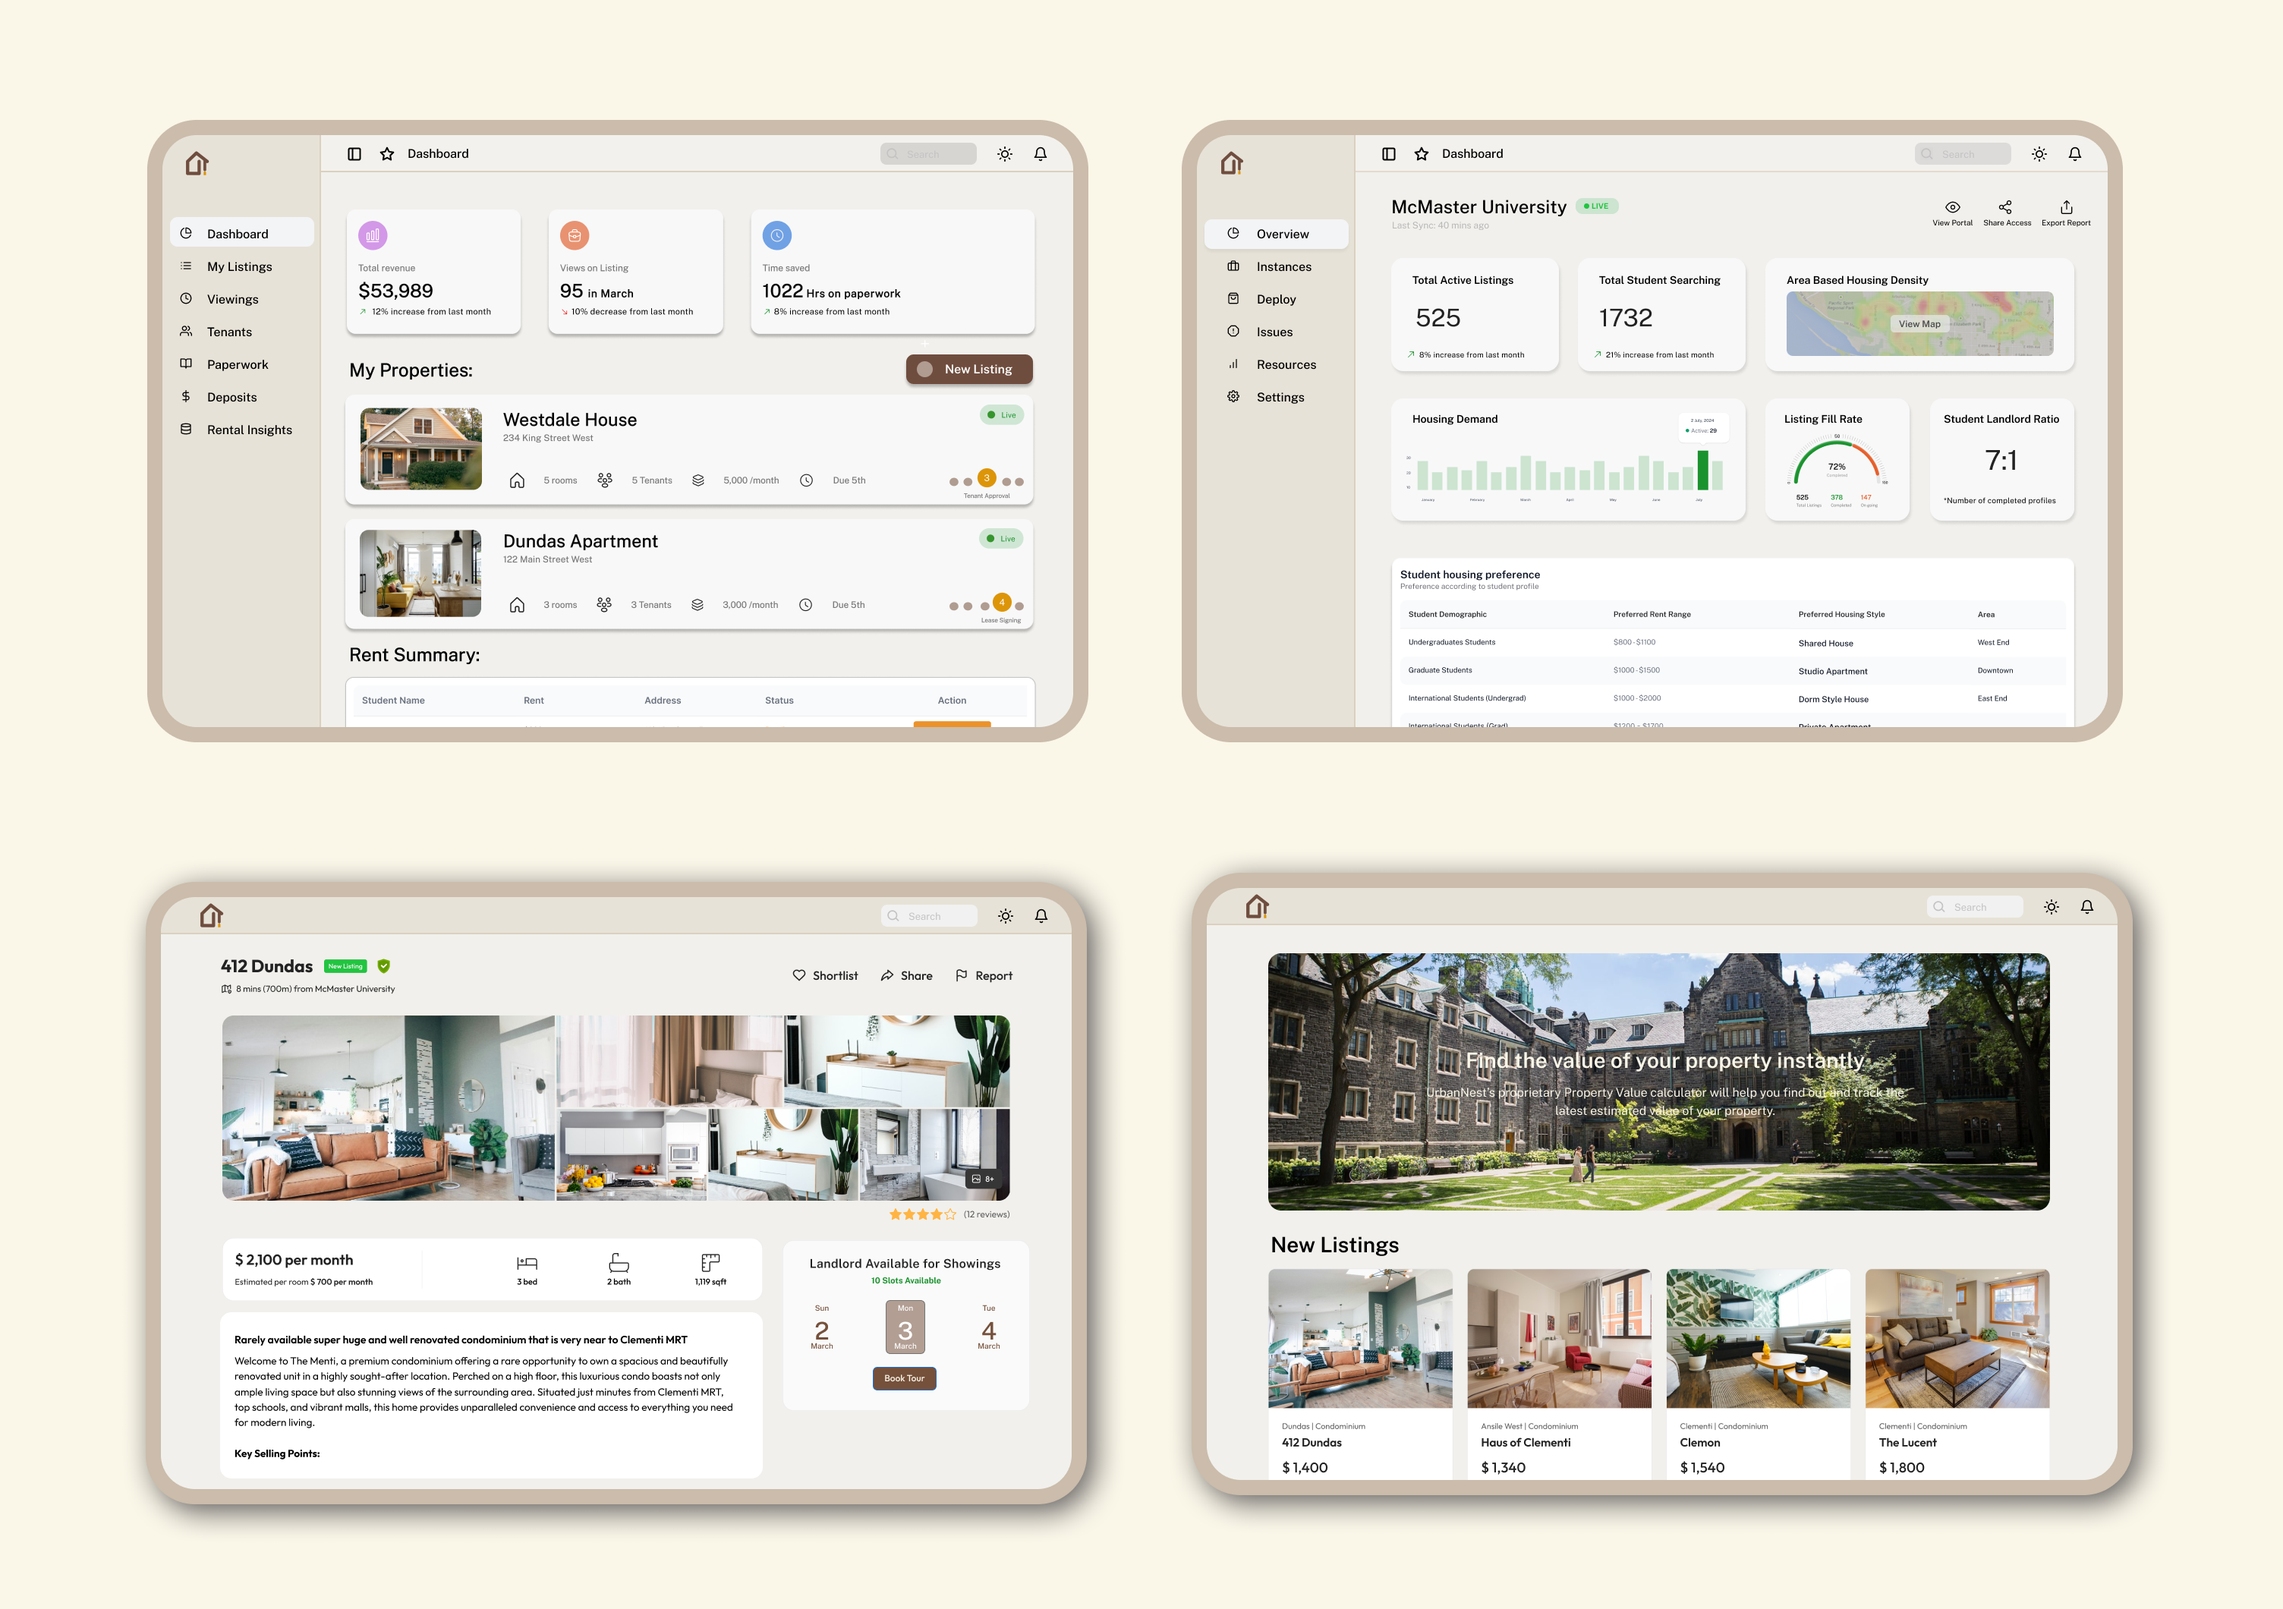
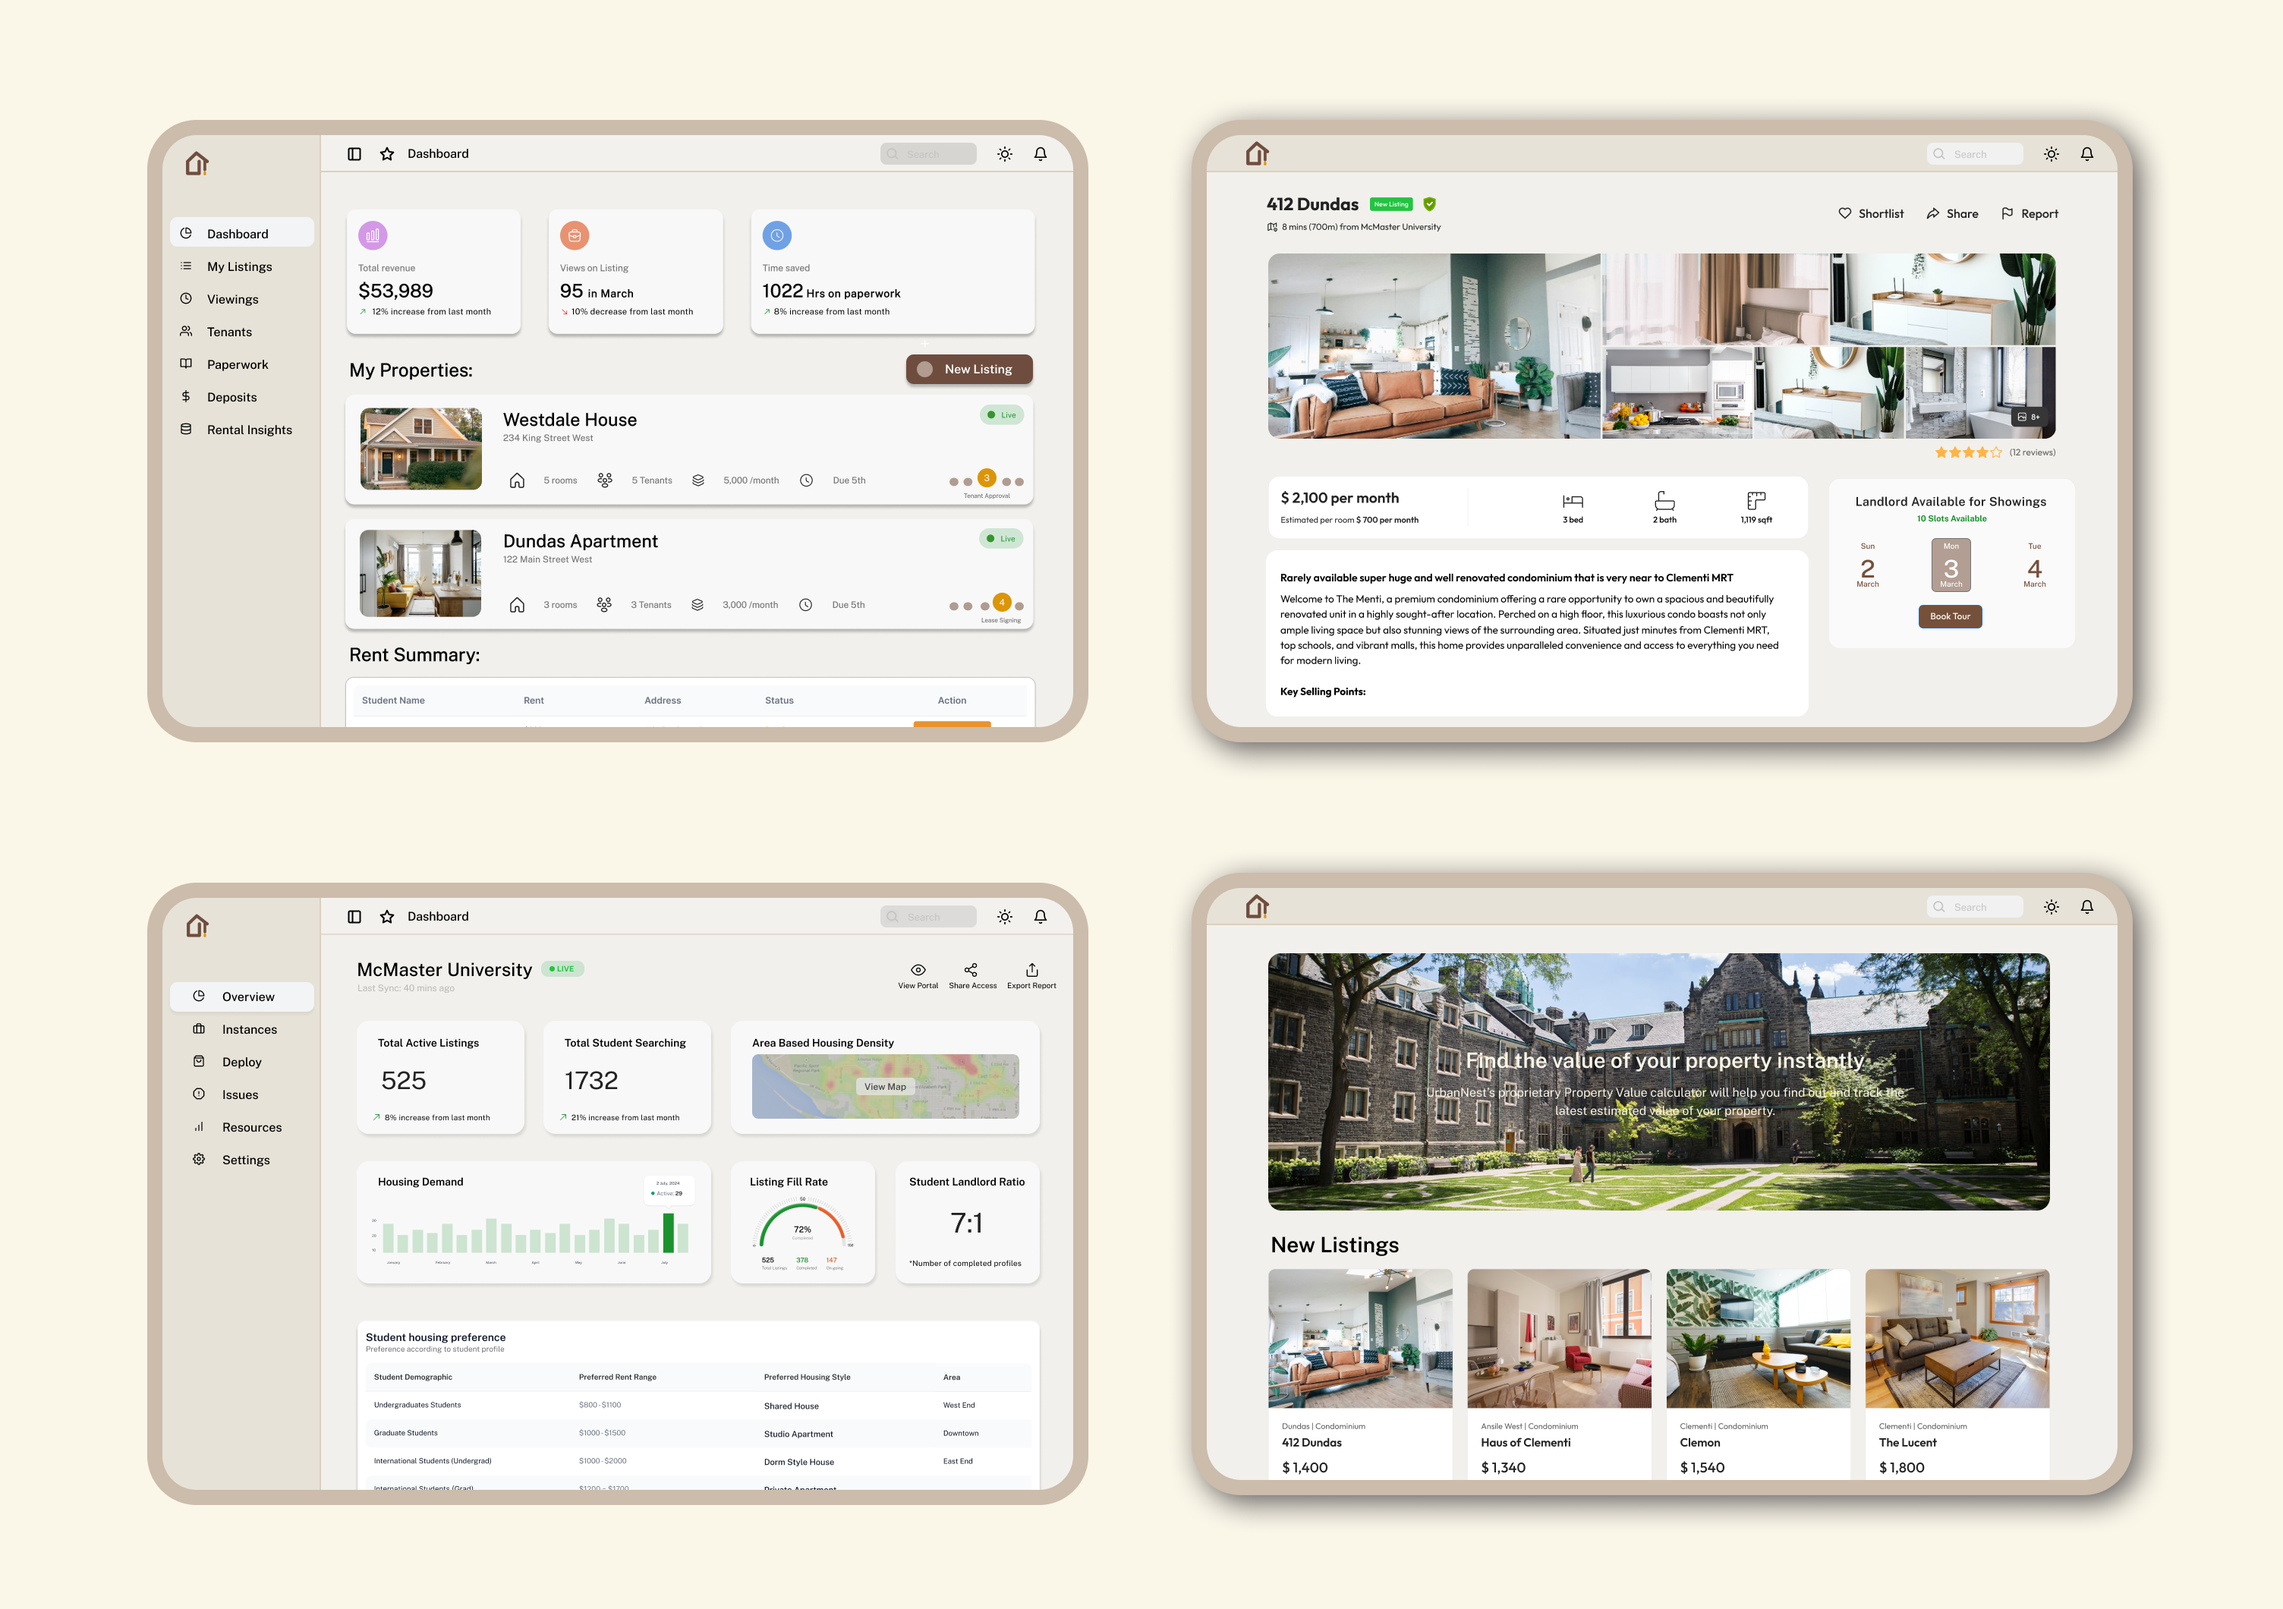
fixed small bugs

Changed region(s): [[0.5, 0.0623, 0.9688, 0.4981], [0.0625, 0.5292, 0.5, 0.9651]]

diff --git a/case3.html b/case3.html
@@ -421,9 +421,11 @@
             <!--end of heading -->
 
         <div class="row">
-          <div class="col-md-6 " >
+          <div class="col-md-12">
+            <p class="text-muted">I began with rough sketches and simple grayscale wireframes to validate the core user flows for students and landlords. These were focused purely on structure and navigation </p>
+          <p class="text-muted">After validating the basic flows, I moved into medium fidelity prototypes. These included more detail—such as form layouts, button placements, and clearer navigation hierarchies—while still avoiding distractions from colors or branding.</p>
           </div>
-  
+
         </div>
           <br>
           </div>
@@ -433,25 +435,25 @@
               <img class="img-fluid " src="img\case3\wire1.png" alt="" style="border-radius: 5%;">
               <br> <br>
               <p class="text-muted">
-                Autem ipsum nam porro corporis rerum. Quis eos dolorem eos itaque inventore commodi labore </p>
+                Provides landlords with a clear overview of active listings, rental income, and tenant activity at a glance. </p>
             </div>
             <div class="col-md-6 " >
               <img class="img-fluid " src="img\case3\wire3.png" alt="" style="border-radius: 5%;">
               <br> <br>
               <p class="text-muted">
-                Autem ipsum nam porro corporis rerum. Quis eos dolorem eos itaque inventore commodi labore </p>
+                Showcases detailed information for a rental property, including photos, pricing, and key amenities. </p>
             </div>
             <div class="col-md-6" >
               <img class="img-fluid " src="img\case3\wire2.png" alt="" style="border-radius: 5%;">
               <br> <br>
               <p class="text-muted">
-                Autem ipsum nam porro corporis rerum. Quis eos dolorem eos itaque inventore commodi labore </p>
+                Displays the number of partnered properties, a usage heatmap, and overall housing trends for university admins. </p>
             </div>
             <div class="col-md-6" >
               <img class="img-fluid " src="img\case3\wire4.png" alt="" style="border-radius: 5%;">
               <br> <br>
               <p class="text-muted">
-                Autem ipsum nam porro corporis rerum. Quis eos dolorem eos itaque inventore commodi labore </p>
+                Central hub where students browse and discover verified housing options, tailored to their search needs. </p>
             </div>
           </div>
           
@@ -463,26 +465,26 @@
               <img class="img-fluid " src="img\case3\med1.png" alt="" style="border-radius: 5%;">
               <br> <br>
               <p class="text-muted">
-                Autem ipsum nam porro corporis rerum. Quis eos dolorem eos itaque inventore commodi labore </p>
+                Medium-fidelity wireframe showing clearer layouts for income tracking and active listings, refining navigation and data presentation. </p>
             </div>
             <div class="col-md-6 " >
               <img class="img-fluid " src="img\case3\med2.png" alt="" style="border-radius: 5%;">
               <br> <br>
               <p class="text-muted">
-                Autem ipsum nam porro corporis rerum. Quis eos dolorem eos itaque inventore commodi labore </p>
-            </div>
-            <div>style="padding-top: 3rem;"</div>
+                Mid-fidelity design introducing layout consistency, detailed property cards, and interaction points such as “apply” or “save.” </p>
+            <br><br>
+              </div>
             <div class="col-md-6"  >
               <img class="img-fluid " src="img\case3\med3.png" alt="" style="border-radius: 5%;">
               <br> <br>
               <p class="text-muted">
-                Autem ipsum nam porro corporis rerum. Quis eos dolorem eos itaque inventore commodi labore </p>
+                Enhanced version featuring structured charts, a property usage heatmap, and improved information hierarchy for admin insights. </p>
             </div>
             <div class="col-md-6" >
               <img class="img-fluid " src="img\case3\med4.png" alt="" style="border-radius: 5%;">
               <br> <br>
               <p class="text-muted">
-                Autem ipsum nam porro corporis rerum. Quis eos dolorem eos itaque inventore commodi labore </p>
+                Medium-fidelity prototype showcasing a refined browsing flow with property filters, listing previews, and structured content blocks. </p>
             </div>
           </div>
 
@@ -498,8 +500,9 @@
               <div class="col-md-12 " >
               <h6>High-fidelity</h6>
               <p class="text-muted">
-                Autem ipsum nam porro corporis rerum. Quis eos dolorem eos itaque inventore commodi labore quia quia. Exercitationem repudiandae officiis neque suscipit non officia eaque itaque enim. Voluptatem officia accusantium nesciunt est omnis tempora consectetur dignissimos. Sequi nulla at esse enim cum deserunt eius.
-              </p>
+               I translated the approved flows into high-fidelity prototypes in Figma, applying the StudentBase design system (color palette, typography, and components). These prototypes closely resembled the final product and enabled realistic user testing.              </p>
+              <img class="img-fluid " src="img\case3\hifed.png" alt="" style="border-radius: 5%;">
+
               </div>
             </div>
             <br> <br>
@@ -513,55 +516,26 @@
               <img  class="img-fluid" src="img/lime.png" style="width: 50%">
             <br> <br> 
             <p class="text-muted">
-              Autem ipsum nam porro corporis rerum. Quis eos dolorem eos itaque inventore commodi labore quia quia. Exercitationem repudiandae officiis neque suscipit non officia eaque itaque enim. Voluptatem officia accusantium nesciunt est omnis tempora consectetur dignissimos. Sequi nulla at esse enim cum deserunt eius.
-            </p>
+            The early designs and research directly supported StudentBase’s first product launch. Within just four months, the platform facilitated $25,000 in student leases and generated $8,000 in revenue. The system has since grown to support over 3,500 students, 700 landlords, and 5 universities.
+
+            My design contributions helped StudentBase move from idea → functional MVP, aligning stakeholders around clear user flows, a consistent design system, and validated prototypes. This foundation positioned the startup for traction in an underserved market.            </p>
+             <br><br> 
+            <h6>Reflections</h6>
+            <div class="col-md-12" >
+            <p class="text-muted"> Designing for a pre-seed startup taught me how to move quickly while still grounding decisions in user research. I learned the importance of balancing MVP speed with usability, and how to design for multiple stakeholders (students, landlords, universities) with distinct needs. Most importantly, I developed confidence in creating scalable design systems and prototypes that drive clarity across teams.
+              </p>       
+              <br>
+              <h6>Addional Discussion points</h6>
+                  <br>
+                  <ol class="text-muted">
+                    <li>Landing page design for MVP launch</li>
+                    <li>Usability Testing</li>
+                    <li>Roll-out of new website</li>
+                  </ol>
             </div>
              <!--end of heading -->
 
-          <div class="row case2 justify-content-center">
-            <div class="col-md-5" >
-              <img class="img-fluid " src="img\portfolio\selective-focus-iphone.jpg" alt="" style="border-radius: 5%;">
-              <br> <br>
-              <p class="text-muted">
-                Autem ipsum nam porro corporis rerum. Quis eos dolorem eos itaque inventore commodi labore </p>
-            </div>
-            <div class="col-md-5" >
-              <img class="img-fluid " src="img\portfolio\selective-focus-iphone.jpg" alt="" style="border-radius: 5%;">
-              <br> <br>
-              <p class="text-muted">
-                Autem ipsum nam porro corporis rerum. Quis eos dolorem eos itaque inventore commodi labore </p>
-            </div>
 
-          </div>
-
-            <!--Start of heading -->
-              <div class="case " id="detail">
-                <h3 class=" ">Reflection</h3> </h3>
-                  <img  class="img-fluid" src="img/lime.png" style="width: 50%">
-                  <div class="col-md-12" >
-                    <p class="text-muted"> This internship helped shape how I think about building scalable, user-first products. I learned how to lead design through ambiguity, align with engineering and product goals, and balance MVP scope with user impact. It also deepened my interest in product management as a career path.
-                      </p>
-                      <ul class="text-muted">
-                        <li>myMaintenance – A mobile app for aircraft maintenance teams</li>
-                        <li>myService – A customer support app launched on the App Store</li>
-                        <li>myBombardier (Partnership Portal) – A new internal platform to manage third-party partnerships and ad campaigns</li>
-                      </ul>
-                      <br><br> 
-
-                  <h6>Next Steps</h6>
-                  <br>
-                  <ol class="text-muted">
-                    <li>myMaintenance – A mobile app for aircraft maintenance teams</li>
-                    <li>myService – A customer support app launched on the App Store</li>
-                    <li>myBombardier (Partnership Portal) – A new internal platform to manage third-party partnerships and ad campaigns</li>
-                  </ol>
- 
-                 </div>
-              </div>
-              <br><br> <br>
-              </div>
-
-            <!--end of heading -->
 
     </div> <!-- end of case -->
 

diff --git a/case1.html b/case1.html
@@ -552,8 +552,8 @@
                   <br><br>
                   <div class=" p-4 text-center">
                     <h5 class="mb-3">Watch: myMaintenenece App Release</h5>
-                    <div class="ratio ratio-16x9 ">
-                      <iframe  src="https://www.youtube.com/embed/ZYyU_qTjqUo?si=-J0A_S7mrIIoXvRG" title="YouTube video player" frameborder="0" allow="accelerometer; autoplay; clipboard-write; encrypted-media; gyroscope; picture-in-picture; web-share" referrerpolicy="strict-origin-when-cross-origin" allowfullscreen style=" width:100%; height:100%; position: absolute"></iframe>
+                    <div class="embed-responsive embed-responsive-16by3">
+                    <iframe class="embed-responsive-item" src="https://www.youtube.com/embed/ZYyU_qTjqUo?si=-J0A_S7mrIIoXvRG" allowfullscreen></iframe>
                     </div>
                     <br>
                     <p>Official Bombardier product demo featuring the apps I helped bring to life.</p>
